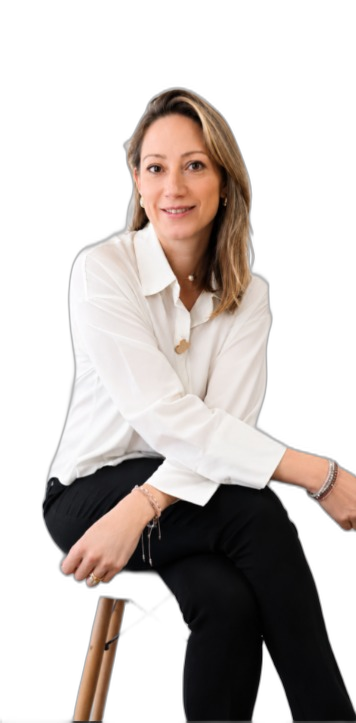
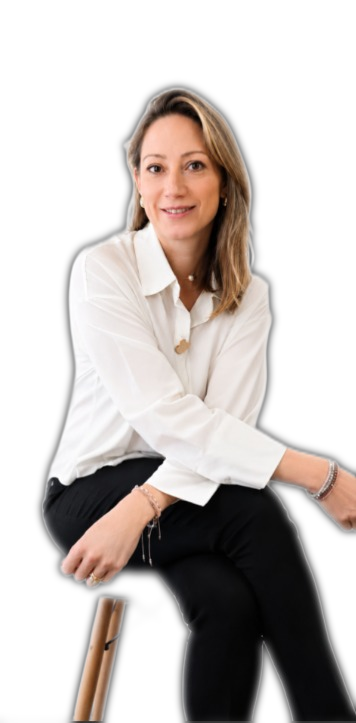
fix: feather only the cutout edge, keep the silhouette itself sharp
Blur just the alpha mask of the cutout so the contour blends softly
into the textured background, instead of blurring the whole photo.

diff --git a/src/app/page.tsx b/src/app/page.tsx
@@ -56,7 +56,7 @@ export default function Home() {
               src={cataCutoutImg}
               alt="Cata Ayala"
               fill
-              className="object-contain object-bottom blur-sm"
+              className="object-contain object-bottom"
               priority
             />
           </motion.div>